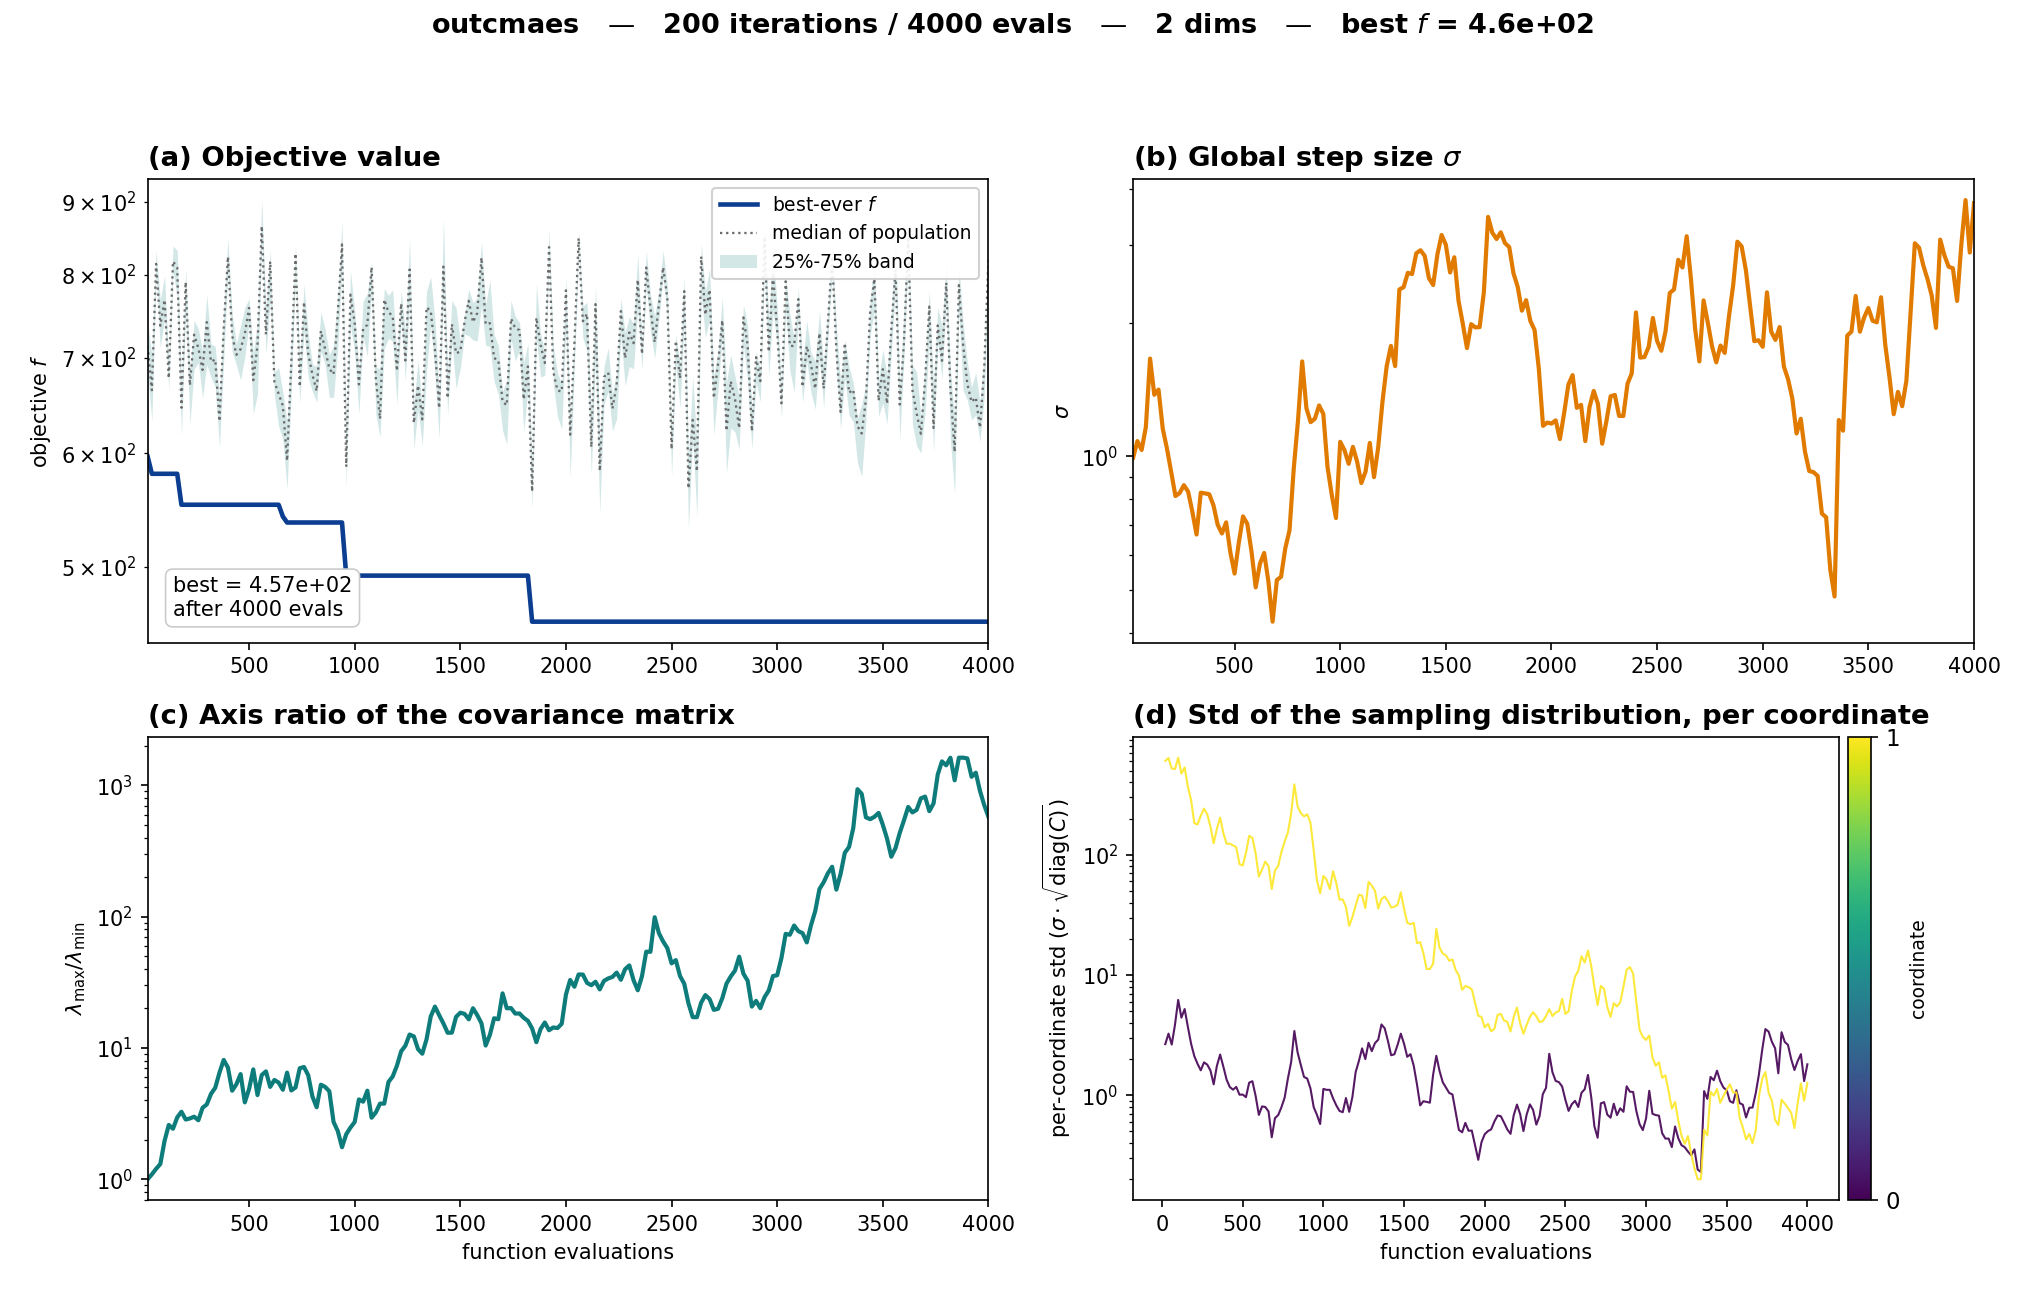
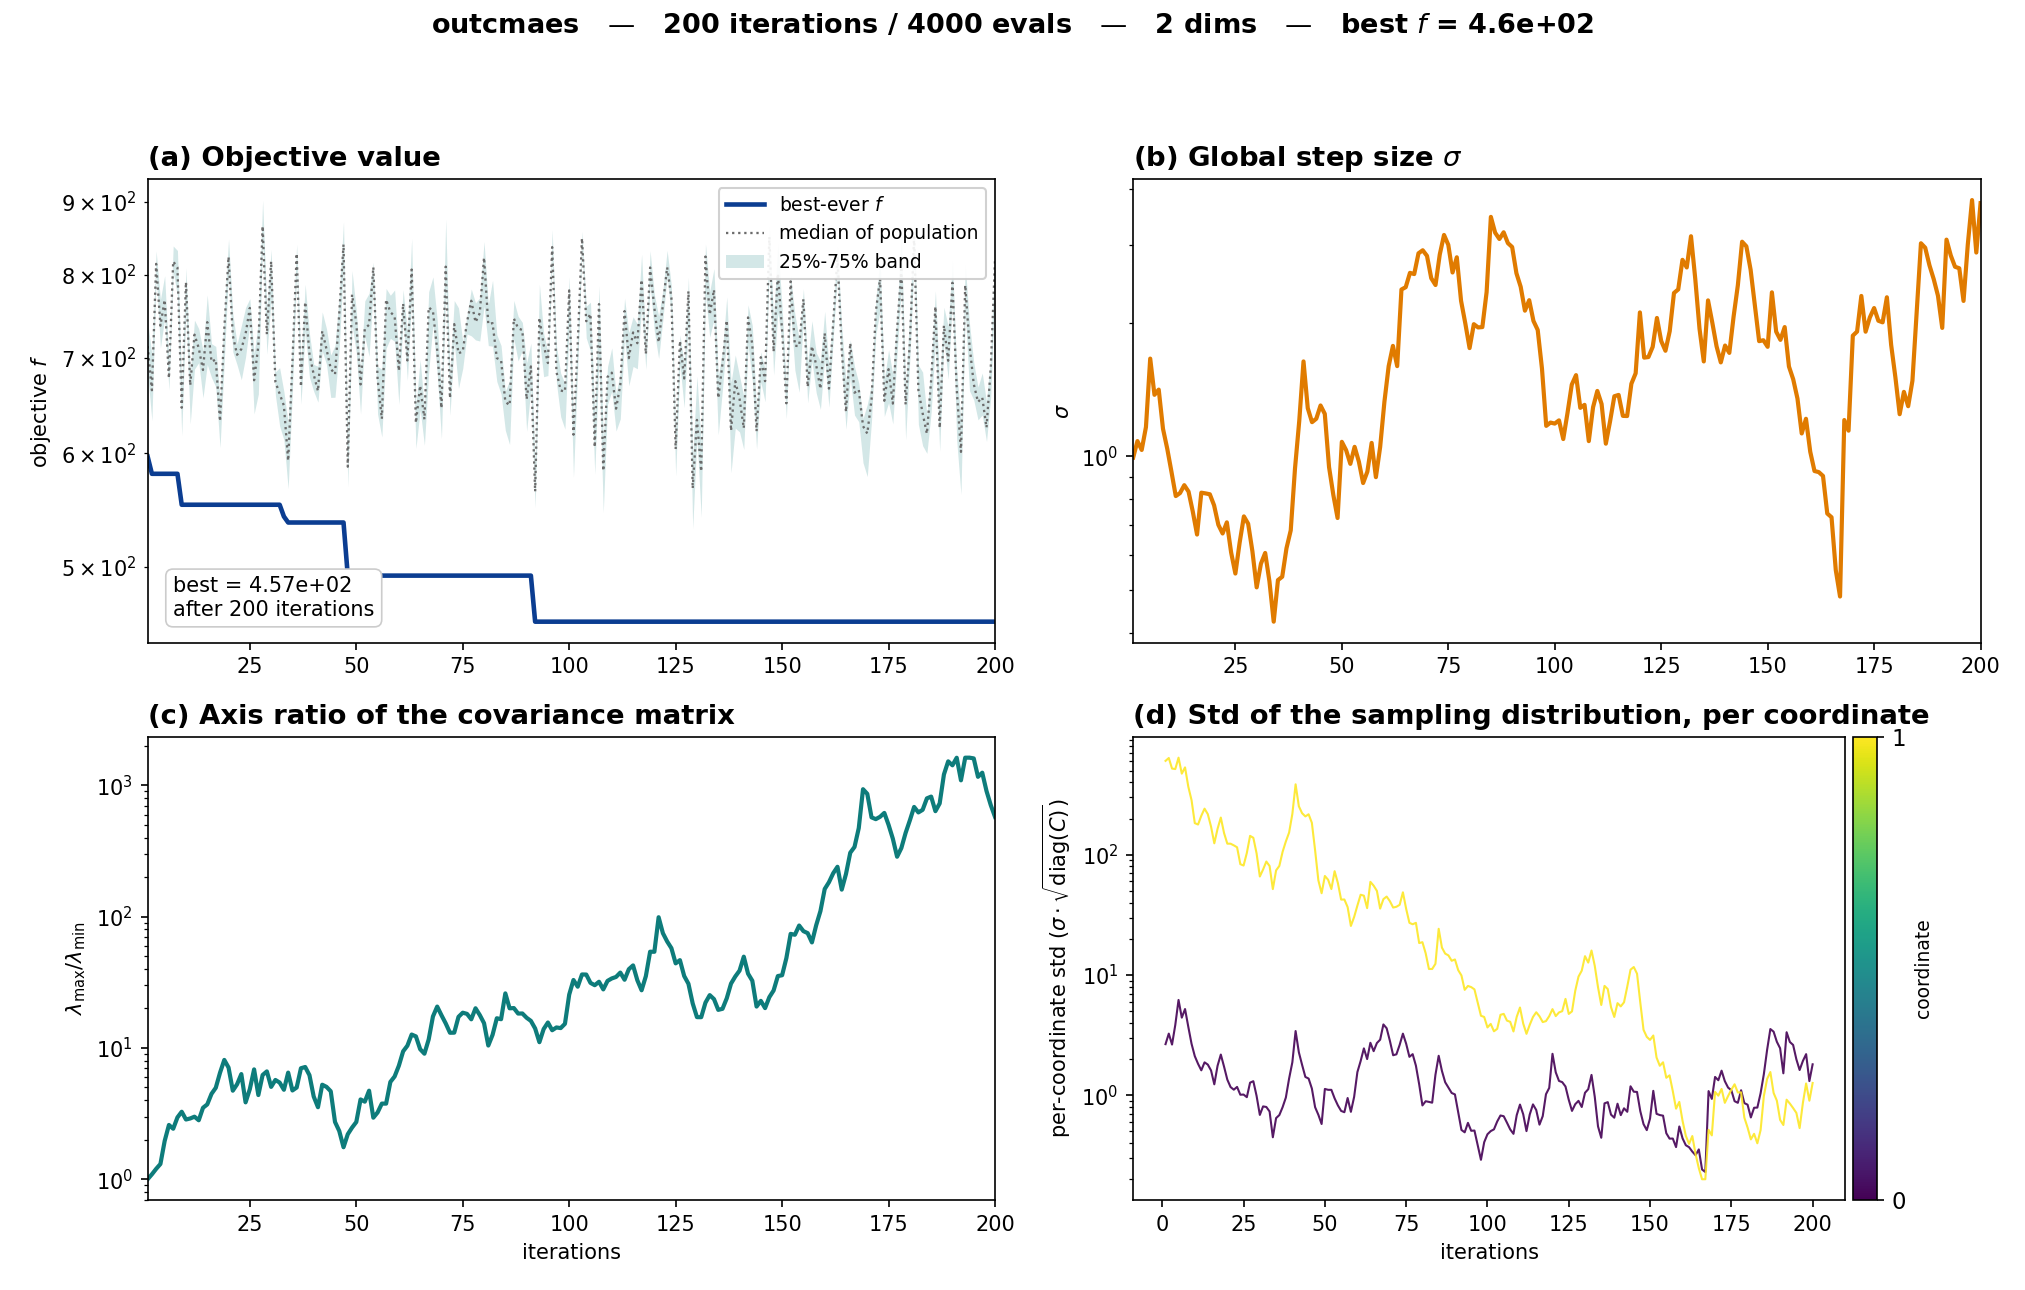
Improved plot scripts

diff --git a/CMAES/plot_mean.py b/CMAES/plot_mean.py
@@ -1,0 +1,106 @@
+import numpy as np
+import matplotlib.pyplot as plt
+
+def plot_cma_mean_variables(
+    data_source="outcmaes/xmean.dat",
+    mode="twinx",          # 'twinx' for dual y-axes, or 'scaled' for single axis with pc multiplier
+    pc_scale_factor=25.0,  # multiplier used only if mode='scaled'
+    save_path="mean_plot.png"
+):
+    """
+    Plots the mean trajectories of pc and pl from pycma output without the 
+    vertical maxiter boundary line or trailing right-margin artifacts.
+
+    Parameters:
+    -----------
+    data_source : str, cma.CMADataLogger, or np.ndarray
+        Path to 'outcmaes/xmean.dat', a loaded CMADataLogger instance, or an array.
+    mode : str
+        'twinx' (recommended: independent y-axes) or 'scaled' (pc scaled by pc_scale_factor on one axis).
+    pc_scale_factor : float
+        Scaling multiplier applied to pc when mode='scaled'.
+    save_path : str or None
+        Path to save the resulting figure (e.g., 'mean_variables.png').
+    """
+    # 1. Parse pycma data structure
+    # In pycma's xmean.dat: col 0 = iteration, col 1 = evaluations, cols 5: = variables
+    if isinstance(data_source, str):
+        raw = np.loadtxt(data_source, comments="%")
+    elif hasattr(data_source, "xmean"):
+        raw = data_source.xmean
+    elif hasattr(data_source, "data") and "xmean" in data_source.data:
+        raw = data_source.data["xmean"]
+    else:
+        raw = np.asarray(data_source)
+
+    if raw.shape[1] > 5:
+        iterations = raw[:, 1]
+        pc = raw[:, 5]  # Index 0
+        pl = raw[:, 6]  # Index 1
+    else:
+        # Fallback if the user pre-sliced the array
+        iterations = np.arange(len(raw))
+        pc = raw[:, 0]
+        pl = raw[:, 1]
+
+    # Style parameters
+    fig, ax1 = plt.subplots(figsize=(7.5, 4.5), dpi=150)
+    color_pc = "#1f77b4"  # Default pycma blue
+    color_pl = "#ff7f0e"  # Default pycma orange
+
+    if mode == "twinx":
+        # Left axis: pc
+        line_pc = ax1.plot(iterations, pc, color=color_pc, linewidth=1.8, label=r"$p_c$ (mean)")
+        ax1.set_xlabel("Iterations", fontsize=11)
+        ax1.set_ylabel(r"$p_c$", color=color_pc, fontsize=12, fontweight="bold")
+        ax1.tick_params(axis="y", labelcolor=color_pc)
+        ax1.set_ylim(bottom=0, top=max(pc) * 1.15)
+
+        # Right axis: pl
+        ax2 = ax1.twinx()
+        line_pl = ax2.plot(iterations, pl, color=color_pl, linewidth=1.8, label=r"$p_\ell$ (mean)")
+        ax2.set_ylabel(r"$p_\ell$", color=color_pl, fontsize=12, fontweight="bold")
+        ax2.tick_params(axis="y", labelcolor=color_pl)
+        ax2.set_ylim(bottom=0, top=max(pl) * 1.1)
+
+        # Unified legend
+        lines = line_pc + line_pl
+        labels = [l.get_label() for l in lines]
+        ax1.legend(lines, labels, loc="upper right", framealpha=0.9, edgecolor="lightgray")
+        
+        # Grid based on the primary axis
+        ax1.grid(True, linestyle="--", alpha=0.4)
+
+    elif mode == "scaled":
+        # Single axis: pc scaled by a constant factor
+        scaled_pc = pc * pc_scale_factor
+        line_pl = ax1.plot(iterations, pl, color=color_pl, linewidth=1.8, label=r"$p_\ell$")
+        line_pc = ax1.plot(
+            iterations, 
+            scaled_pc, 
+            color=color_pc, 
+            linewidth=1.8, 
+            label=rf"$p_c \times {pc_scale_factor:g}$"
+        )
+        
+        ax1.set_xlabel("Iterations", fontsize=11)
+        ax1.set_ylabel("Parameter Value", fontsize=11)
+        ax1.set_ylim(bottom=0)
+        ax1.legend(loc="upper right", framealpha=0.9, edgecolor="lightgray")
+        ax1.grid(True, linestyle="--", alpha=0.4)
+
+    # Clean borders and prevent trailing whitespace / line extensions
+    ax1.set_xlim(iterations[0], iterations[-1])
+    ax1.set_title(r"Object Variables Mean Trajectory ($p_c, p_\ell$)", fontsize=12, pad=10)
+
+    plt.tight_layout()
+
+    if save_path:
+        plt.savefig(save_path, dpi=300, bbox_inches="tight")
+    plt.show()
+
+# Example usage:
+if __name__ == "__main__":
+    # Point directly to pycma's output directory, or pass your logger instance
+    plot_cma_mean_variables(data_source="outcmaes/xmean.dat", mode="twinx")
+

diff --git a/CMAES/plot_outcmaes.py b/CMAES/plot_outcmaes.py
@@ -433,7 +433,7 @@ def main(argv=None):
     ap.add_argument("--xopt", default=None, metavar="V",
                     help="known optimum: scalar ('1.0') or comma list "
                          "('0,0,0'); panel (d) then shows |mean - xopt|")
-    ap.add_argument("--xaxis", choices=("evals", "iters"), default="evals",
+    ap.add_argument("--xaxis", choices=("evals", "iters"), default="iters",
                     help="abscissa: function evaluations or iterations")
     ap.add_argument("--title", default=None, help="override the figure title")
     ap.add_argument("--max-lines", type=int, default=30, metavar="K",

diff --git a/CMAES/plot_debug.py b/CMAES/plot_debug.py
@@ -2,5 +2,6 @@ import cma
 import matplotlib.pyplot as plt
  
 cma.plot()
+plt.savefig('default_plot.png', dpi=300, bbox_inches='tight')
 plt.show(block=True)
 input()
